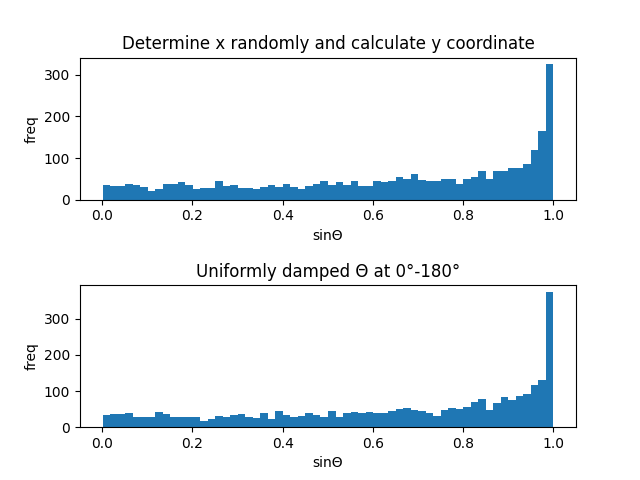
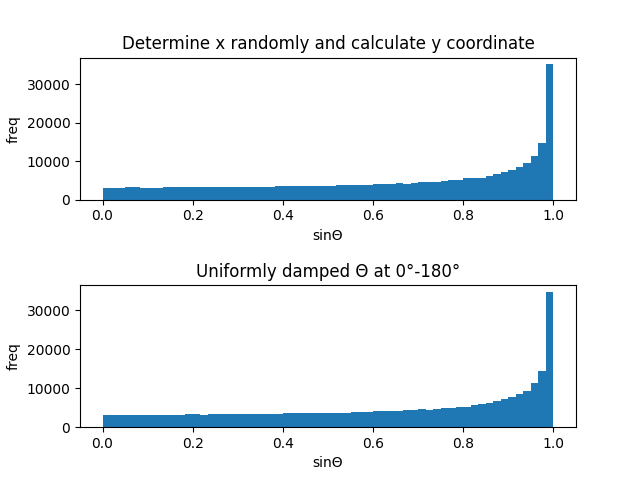
update

diff --git a/c++/bs_needle_problem.cpp b/c++/bs_needle_problem.cpp
@@ -1,5 +1,5 @@
 /*
-clang++-11 bs_needle_problem.cpp -I/usr/include/python3.8 -I$HOME/.local/lib/python3.8/site-packages/numpy/core/include -lpython3.8
+ * clang++-11 bs_needle_problem.cpp -I/usr/include/python3.8 -I$HOME/.local/lib/python3.8/site-packages/numpy/core/include -lpython3.8
  */
 #include <iostream>
 #include <string>
@@ -9,18 +9,23 @@ clang++-11 bs_needle_problem.cpp -I/usr/include/python3.8 -I$HOME/.local/lib/pyt
 #include <chrono>
 #include <utility>
 #include "matplotlibcpp.h"
+//#include <algorithm>
+//#include <numbers>
 
 
 
 namespace myk {
 
+constexpr double PI = 3.141592653589793238462643383279502884L;
+
 class BNP {
 
     std::random_device seed_gen;
     uint64_t seed;
-    std::mt19937 engine;
 
   public:
+    std::mt19937 engine;
+
     static constexpr uint8_t NEEDLE_LENGTH = 5;                 // 針の長さ(l)
     static constexpr uint8_t LINE_WIDTH = NEEDLE_LENGTH * 2;    // 線の幅(w)
 
@@ -34,6 +39,7 @@ class BNP {
     void drop() {
         //std::mt19937 engine{this->seed};
         std::uniform_real_distribution<> dist{0, 1};
+//std::cout << dist(engine) << std::endl;
         dropPoint.push_back(dist(engine) * (LINE_WIDTH / 2));
         dropAngle.push_back(simulation2());
     }
@@ -42,9 +48,9 @@ class BNP {
     // 針が線に触れている数を集計。                  < 
     // ===============================================
     void totalingTouchLine() {
-        for (auto i = 0; i < dropAngle.size(); i++) {
+        for (std::size_t i = 0; i < dropAngle.size(); i++) {
              // 1/2*l+sinΘ
-            double h = (BNP::NEEDLE_LENGTH / 2) * dropAngle.at(i);
+            double h = ((double)BNP::NEEDLE_LENGTH / 2) * dropAngle.at(i);
             if (h >= dropPoint.at(i)) {
                 this->touchLineCount++;
             }
@@ -54,8 +60,10 @@ class BNP {
     double calc() const {
         uint64_t numberOfTrials = dropAngle.size();
         std::cout << "回数:" << numberOfTrials << std::endl;
+
         return (double) numberOfTrials / this->touchLineCount;
     }
+
 
     // ==================================================
     // 単位円上にランダムに点を置き、一様な分布を用いて <
@@ -63,9 +71,10 @@ class BNP {
     // ==================================================
     double simulation() {
         // WIP
-        uint8_t r = 0;
+        //uint8_t r = 0;
         return 0;
     }
+
 
     // ===================================================
     // 単位円内にランダムに点を置き、                    <
@@ -91,33 +100,61 @@ class BNP {
 
 };
 
+
 } // namespace myk end
 
-template<typename T>
-void savefileCSV(const std::vector<T>& vec) {
-}
 
-using namespace myk;
+using myk::BNP;
 
-int main(int argc, char* argv[]) {
+int main() {
+
     std::chrono::system_clock::time_point start, end;
+
     start = std::chrono::system_clock::now(); // 計測開始
     BNP bnp{};
-    constexpr auto TIMES = 3000;
+    constexpr auto TIMES = 5000000;
     for (auto i = 0; i < TIMES; i++) bnp.drop();
     bnp.totalingTouchLine();
     double pi = bnp.calc();
     end = std::chrono::system_clock::now(); // 計測終わり
-    std::cout << "π= " << pi << std::endl;
-    std::cout << "触れた回数:" << bnp.touchLineCount << std::endl;
 
     double time = static_cast<double>(
                 std::chrono::duration_cast<std::chrono::microseconds>(end - start)
                 .count() / (1000.0 * 1000.0)
             ); // 秒 
+
+    std::cout << "π= " << pi << std::endl;
+    std::cout << "触れた回数:" << bnp.touchLineCount << std::endl;
     std::cout << "経過時間:" << std::round(time * 1000) / 1000 << " 秒" << std::endl; 
 
 
+    // グラフ表示
+    
+    //0~180°からランダムに選びsinΘをベクターに格納
+    std::vector<double> y2;
+    for (auto i = 0; i < TIMES; i++) {
+        std::uniform_real_distribution<> dist{0, 1};
+        y2.push_back(std::sin(dist(bnp.engine) * myk::PI));
+    }
+    namespace plt = matplotlibcpp;
+    plt::subplot(2, 1, 1);
+    plt::hist(y2, 100, "darkcyan");
+    plt::subplots_adjust({{"hspace", 0.6}});
+
+    //BNPオブジェクトのdropAngleをベクターに格納
+    //std::vector<double> y3{};
+    //for (auto i = 0; i < TIMES; i++) {
+    //    y3.push_back(bnp.dropAngle.at(i));
+    //}
+
+    plt::subplot(2, 1, 2);
+    plt::hist(bnp.dropAngle, 100, "c");
+
+    plt::show();
+
+    // グラフ表示終わり
+
+    
 }
 
 

diff --git a/python/bs_needle_problem.py b/python/bs_needle_problem.py
@@ -17,7 +17,7 @@ def main(argv: Tuple):
     start = time()
     bnp = Bnp()
     #bnp.create_needle()
-    num_times = 3000
+    num_times = 300000
     for i in range(num_times):
         bnp.drop()
     bnp.totaling_touch_line()
@@ -83,6 +83,8 @@ class Bnp():
     def calc(self) -> float:
         numberOfTrials = len(self.drop_angle)
         print("回数:", numberOfTrials, sep="")
+        print(f"Bnp#touch_line_count={self.touch_line_count}")
+        print(f"numberOfTrials={numberOfTrials}")
         return numberOfTrials / self.touch_line_count
 
     def simulation() -> float:
